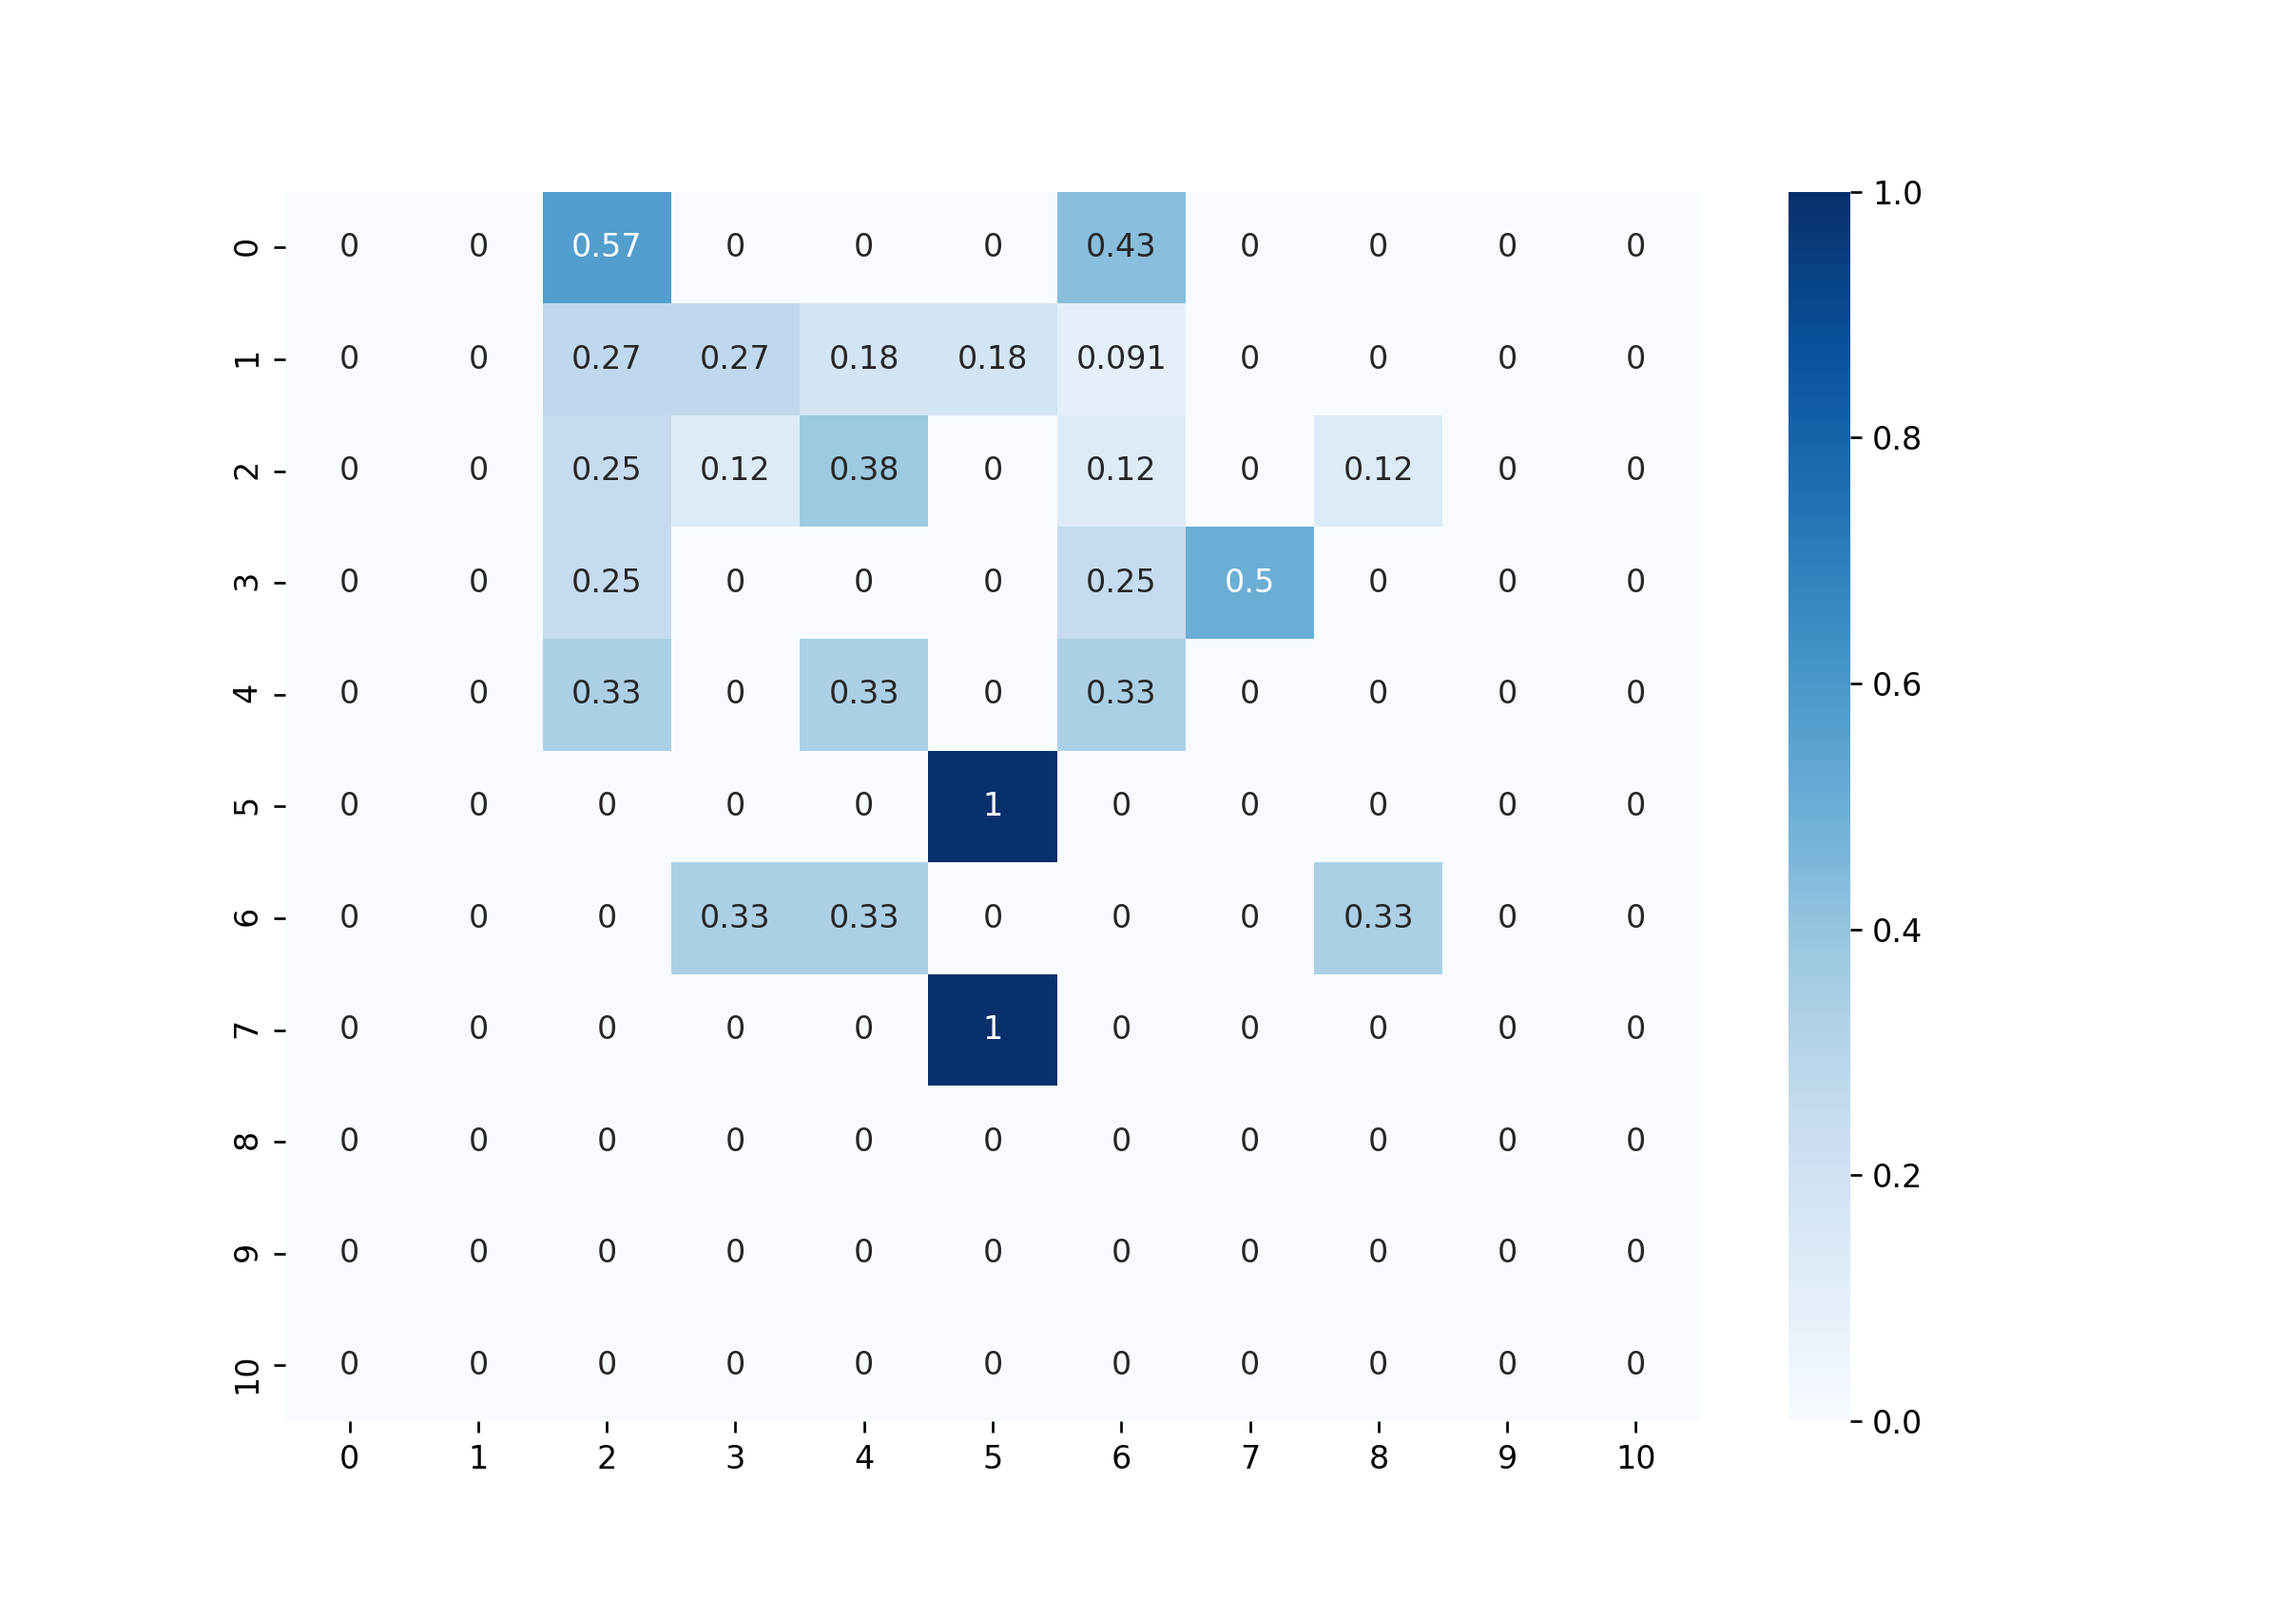
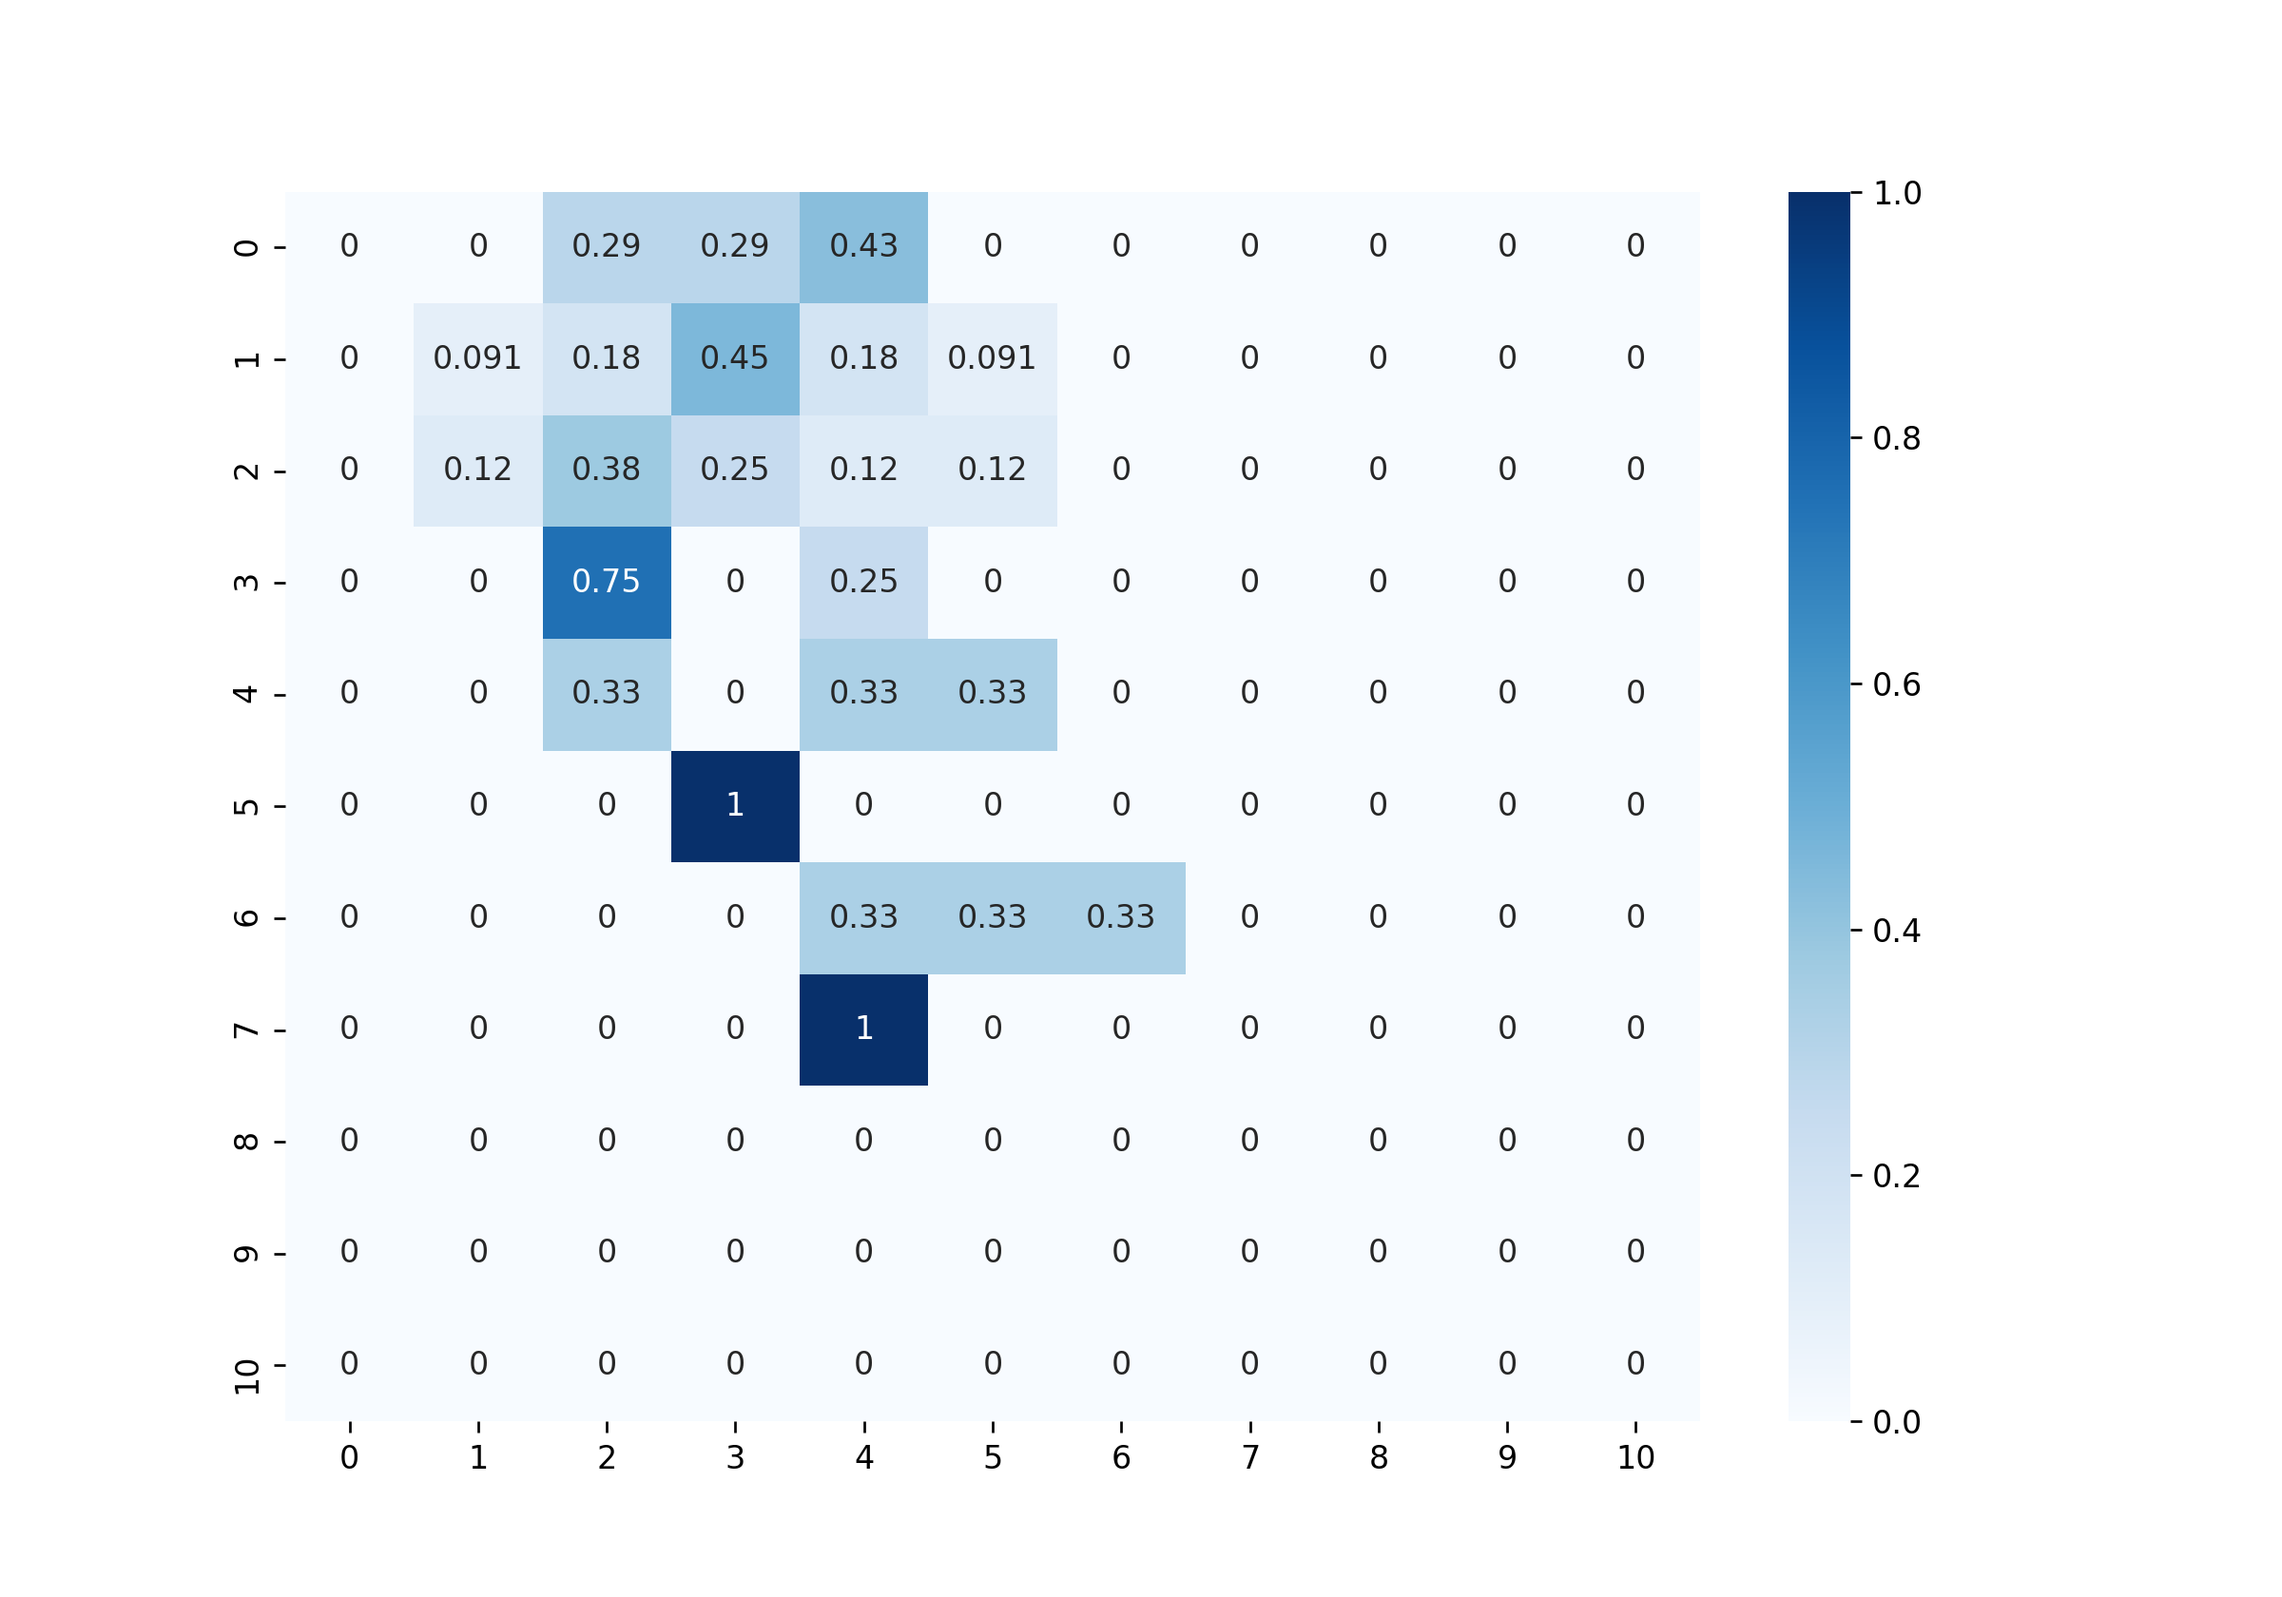
Test implementati ed eseguiti.

Changed region(s): [[0.1562, 0.0929, 0.6562, 0.681], [0.5625, 0.5262, 0.6562, 0.619]]

diff --git a/test_accuracy.py b/test_accuracy.py
@@ -8,7 +8,7 @@ from configuration import config
 from utils import get_training_and_test_idx, check_existing_paths, plot_matrix, save_data_on_csv, save_GMM_mean_info
 
 
-def execute_train(selected_lndks_idx, n_kernels_GMM, threshold_VAS, description, vel_frame_window):
+def execute_train(selected_lndks_idx, n_kernels_GMM, threshold_VAS, description, vel_frame_window, test_num):
     # Type of execution info
     fit_by_bic = config.fit_by_bic
     # Dataset info
@@ -45,16 +45,33 @@ def execute_train(selected_lndks_idx, n_kernels_GMM, threshold_VAS, description,
     path_histo_figures = "data/classifier/" + sub_directory + "/histo_figures/"
     preliminary_clustering_path = "data/classifier/" + sub_directory + "/preliminary_clustering.pickle"
     # Model classifier info and paths
-    path_results = "data/classifier/" + sub_directory + "/"
-    path_errors = path_results + "errors_tests/"
-    path_gmm_means = path_results + "/gmm_means/"
-    path_confusion_matrices = path_results + "confusion_matrices/"
-    path_results_csv = path_results + "results.csv"
-    path_conf_matrix_csv = path_results + "confusion_matrix.csv"
+    path = []
+    path.append("test_accuracy/eyes/")
+    path.append("test_accuracy/mouth/")
+    path.append("test_accuracy/eyes_mouth/")
+    path.append("test_accuracy/standard/")
+    path.append("test_accuracy/kernel_16/")
+    path.append("test_accuracy/kernel_64/")
+    path.append("test_accuracy/kernel_128/")
+    path.append("test_accuracy/VAS_6/")
+    path.append("test_accuracy/VAS_7/")
+    path.append("test_accuracy/VAS_8/")
+    path.append("test_accuracy/VAS_9/")
+    path.append("test_accuracy/position/")
+    path.append("test_accuracy/vel_pos/")
+    path.append("test_accuracy/32_frames_max/")
+    path.append("test_accuracy/64_frames_max/")
+    current_test_path = path[test_num]
+
+    path_errors = current_test_path + "errors_tests/"
+    path_gmm_means = current_test_path + "gmm_means/"
+    path_confusion_matrices = current_test_path + "confusion_matrices/"
+    path_results_csv = current_test_path + "results.csv"
+    path_conf_matrix_csv = current_test_path + "confusion_matrix.csv"
     n_jobs = config.n_jobs
 
     if __name__ == '__main__':
-        dir_paths = [path_results, path_errors, path_confusion_matrices, path_gmm_means]
+        dir_paths = [current_test_path, path_errors, path_confusion_matrices, path_gmm_means]
         if save_histo_figures:
             dir_paths.append(path_histo_figures)
         file_paths = [coord_df_path, seq_df_path]
@@ -138,9 +155,9 @@ def execute_train(selected_lndks_idx, n_kernels_GMM, threshold_VAS, description,
         mean_error = round(mean_error, 3)
         print("Mean Absolute Error: " + str(mean_error))
 
-        path_errors = path_results + "graphics_errors.png"
-        path_conf_matrix = path_results + "confusion_matrix.png"
-        path_conf_matrix_pain_levels = path_results + "confusion_matrix_pain_levels.png"
+        path_errors = current_test_path + "graphics_errors.png"
+        path_conf_matrix = current_test_path + "confusion_matrix.png"
+        path_conf_matrix_pain_levels = current_test_path + "confusion_matrix_pain_levels.png"
         print("Mean absolute errors detected at each round saved in a csv file on path '" + path_results_csv + "'")
         print("Confusion matrices detected at each round saved in png files on path '" + path_confusion_matrices + "'")
 
@@ -160,23 +177,25 @@ def execute_train(selected_lndks_idx, n_kernels_GMM, threshold_VAS, description,
         plt.legend()
         plt.savefig(path_errors)
         plt.close()
-        print("Histogram of the mean absolute error detected saved in a png file on path '" + path_results + "'")
+        print("Histogram of the mean absolute error detected saved in a png file on path '" + current_test_path + "'")
 
 
 def test_accuracy():
     """
-    - Test con landmarks: 1) solo occhi, 2) solo bocca, 3) occhi e bocca, 4) tutti.
-    - Test con numero di clusters per creazione dizionario: 16, 32, 64, 128
-    - Individuazione dei clusters: 1) usando tutte le sequenze di train, 2) usando solo le sequenze di train con VAS maggiore di K=6, 7, 8, 9
-    - Descrizione dei landmarks attraverso: 1) solo posizione, 2) solo velocità, 3) posizione e velocità. In tutti i casi, la descrizione include comunque come primo elemento il vettore di velocità (spostamento) del baricentro
-    - Descrizione della sequenza usando: 1) tutti i frame disponibili, 2) una finestra di N frames centrata sul frame a massima dinamica
+    - Test with landmarks: 1) eyes, 2) mouth, 3) eyes + mouth, 4) all, standard
+    - Test with different number of kernel in clusters: 16, 32, 64, 128
+    - Getting clusters: 1) with all the sequences of train, 2) only with sequences with VAS greater than K = 6, 7, 8, 9
+    - Landmark's description with: 1) only position, 2) only velocity, 3) position and velocity
+    - Sequence's description with: 1) all the available frames, 2) a window of N frmaes centered in the frame with max dynamic
     """
 
-    print("Test con landmarks: 1) Occhi, 2) Bocca, 3) Occhi e Bocca, 4) Tutti")
+    test_num = 0
+    print("Test with landmarks: 1) eyes, 2) mouth, 3) eyes + mouth, 4) all, standard")
     n_kernels_GMM = 32
     threshold_VAS = 0
     description = 'vel'
     vel_frame_window = 0
+
     # Occhi, Bocca, Occhi+Bocca, Standard
     selected_lndks_idx = [[30, 36, 37, 38, 39, 40, 41, 42, 43, 44, 45, 46, 47],
                           [30, 48, 49, 50, 51, 52, 53, 54, 55, 56, 57, 58, 59, 60, 61, 62, 63, 64, 65],
@@ -184,30 +203,37 @@ def test_accuracy():
                            58, 59, 60, 61, 62, 63, 64, 65],
                           [5, 11, 19, 24, 30, 37, 41, 44, 46, 50, 52, 56, 58]]
     for selected_lndks in selected_lndks_idx:
-        execute_train(selected_lndks, n_kernels_GMM, threshold_VAS, description, vel_frame_window)
-
-    print("Test con numero di clusters: 16, 32, 64, 128")
+        execute_train(selected_lndks, n_kernels_GMM, threshold_VAS, description, vel_frame_window, test_num)
+        test_num += 1
+    
+    print("Test with different number of kernel in clusters: 16, 32, 64, 128")
     selected_lndks_idx = [5, 11, 19, 24, 30, 37, 41, 44, 46, 50, 52, 56, 58]
-    n_kernels_GMM = [16, 32, 64, 128]
+    n_kernels_GMM = [16, 64, 128]
     for kernel in n_kernels_GMM:
-        execute_train(selected_lndks_idx, kernel, threshold_VAS, description, vel_frame_window)
+        execute_train(selected_lndks_idx, kernel, threshold_VAS, description, vel_frame_window, test_num)
+        test_num += 1
 
-    print("Individuazione dei clusters: 1) usando tutte le sequenze di train, 2) usando solo le sequenze di train con VAS maggiore di K=6, 7, 8, 9")
-    threshold_VAS = [0, 6, 7, 8, 9]
+
+    print("Getting clusters: 1) with all the sequences of train, 2) only with sequences with VAS greater than K = 6, 7, 8, 9")
+    n_kernels_GMM=32
+    threshold_VAS = [6, 7, 8, 9]
     for threshold in threshold_VAS:
-        execute_train(selected_lndks_idx, n_kernels_GMM, threshold, description, vel_frame_window)
+        execute_train(selected_lndks_idx, n_kernels_GMM, threshold, description, vel_frame_window, test_num)
+        test_num += 1
 
-    print("Descrizione dei landmarks attraverso: 1) solo posizione, 2) solo velocità, 3) posizione e velocità")
-    description = ['pos', 'vel', 'pos+vel']
+    threshold_VAS=0
+    print("Landmark's description with: 1) only position, 2) only velocity, 3) position and velocity")
+    description = ['pos', 'pos+vel']
     for desc in description:
-        execute_train(selected_lndks_idx, n_kernels_GMM, threshold_VAS, desc, vel_frame_window)
+        execute_train(selected_lndks_idx, n_kernels_GMM, threshold_VAS, desc, vel_frame_window, test_num)
+        test_num += 1
 
-    print("Descrizione della sequenza usando: 1) tutti i frame disponibili, 2) una finestra di N frames centrata sul frame a massima dinamica")
-    vel_frame_window = [0, 32, 64]
+    description='vel'
+    print("Sequence's description with: 1) all the available frames, 2) a window of N frmaes centered in the frame with max dynamic")
+    vel_frame_window = [32, 64]
     for vel in vel_frame_window:
-        execute_train(selected_lndks_idx, n_kernels_GMM, threshold_VAS, description, vel)
+        execute_train(selected_lndks_idx, n_kernels_GMM, threshold_VAS, description, vel, test_num)
+        test_num += 1
 
-
-# TODO: aggiungere vel lndk 30 in caso solo pos.
 
 test_accuracy()

diff --git a/PreliminaryClustering.py b/PreliminaryClustering.py
@@ -124,10 +124,12 @@ class PreliminaryClustering:
                 feat_count += 1
         return velocities
 
-    def __get_relevant_frame(self):
+    def __get_relevant_frames(self):
         """
         Returns a window of index of relevant frame for each training sequence, centered on the frame with max vel
         """
+        if self.verbose:
+            print("---- Get relevant frames... ----")
         coord_df = pd.read_csv(self.coord_df_path)
         seq_df = pd.read_csv(self.seq_df_path)
         total_index = []
@@ -156,8 +158,8 @@ class PreliminaryClustering:
             data_velocities_filtered = np.convolve(data_velocities, np.ones(3) / 3, mode='valid')
             if self.vel_frame_window > 0:
                 max_index, value = max(enumerate(data_velocities_filtered), key=operator.itemgetter(1))
-                if max_index + int(self.vel_frame_window / 2) > lndk_vel.shape[0]:
-                    end = lndk_vel.shape[0]-1
+                if max_index + int(self.vel_frame_window / 2) > lndk_vel.shape[0] - 1:
+                    end = lndk_vel.shape[0] - 1
                 else:
                     end = max_index + int(self.vel_frame_window / 2)
                 if max_index - int(self.vel_frame_window / 2) < 0:
@@ -180,11 +182,11 @@ class PreliminaryClustering:
 
         if self.verbose:
             print("---- Preparing features vector of the frame in the training set by velocities... ----")
-        relevant_frames = self.__get_relevant_frame()
+        relevant_frames = self.__get_relevant_frames()
         train_num_frames = sum([len(relevant_frames[count]) for count, video in enumerate(relevant_frames)])
         n_features_for_frame = len(self.selected_lndks_idx)
         if 'pos' in self.description and 'vel' not in self.description:
-            train_frames_features = np.ndarray(shape=(1, train_num_frames, 3, n_features_for_frame))
+            train_frames_features = np.ndarray(shape=(1, train_num_frames, 2, n_features_for_frame))
         if 'pos' not in self.description and 'vel' in self.description:
             train_frames_features = np.ndarray(shape=(1, train_num_frames, 1, n_features_for_frame))
         if 'pos' in self.description and 'vel' in self.description:
